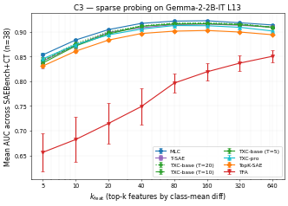
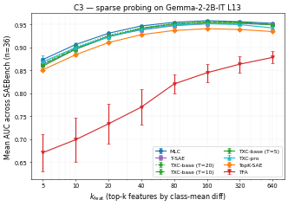
Agent NLP: c3 — switch headline to SAEBench-36 (drop CT tasks)
Han: "rewrite c3.md using ONLY the official SAEBench36". Per-token
mean-pool can't represent cross-token references, and winogrande_correct_completion +
wsc_coreference were scoring 0.40-0.50 across every arch — uniform
arch-orthogonal noise rather than feature-quality signal. Dropping
them lifts every arch by ~0.027 AUC at k=20 with no rank flips
(except TFA which gains less, ~0.019, since its per-task floor is
already low).

analysis.py:
- New CT_TASKS = ('winogrande_correct_completion', 'wsc_coreference')
  + N_HEADLINE_TASKS = 36 constants.
- Aggregation now recomputes mean_auc / std_tasks / mean_acc on a
  filter of per-task `auc__*` / `acc__*` rows in the leaderboard
  (the row stores all 38 per-task floats — we just drop CT at
  analysis time, NO re-eval needed). Skips a row if its per-task
  storage is incomplete (<36 SAEBench tasks present).
- Headline blurb + plot y-axis label updated: "SAEBench (n=36)" with
  a pointer to the Caveats reasoning.

c3.md:
- Setup task suite section: SAEBench+CT (n=38) → SAEBench (n=36),
  table footer relabeled, +1/+1 cross-token rows removed; CT pair
  retention explained inline (still in leaderboard, dropped at
  aggregation, one-line revert via `CT_TASKS = ()`).
- Hypothesis "Result" paragraph rewritten with the 36-task numbers
  (peak at k=160 — MLC 0.959 / TXC family 0.952-0.956 / TopK 0.941
  / TFA 0.878; T-modulation flattens at k≥80; TXC-pro k=5 vs MLC
  comparison overlaps in σ_seeds).
[…]

diff --git a/purified/experiments/c3_probing/analysis.py b/purified/experiments/c3_probing/analysis.py
@@ -11,7 +11,10 @@ or directly::
 Aggregation policy (locked in agent_paper/decisions.md):
 - Filter ``smoke=True`` rows out (those are pipeline-validation artefacts,
   not paper claims).
-- Headline metric = ``mean_auc`` (average AUC over the 38 SAEBench+CT tasks).
+- Headline metric = ``mean_auc`` recomputed at analysis time over the 36
+  canonical SAEBench tasks (the leaderboard row stores per-task AUCs for
+  all 38 incl. winogrande/wsc; the cross-token pair drops at aggregation
+  per the c3.md "we report SAEBench-36 only" decision).
 - Per (arch, k_feat): mean ± σ_seeds across seeds {1, 2, 42}.
 - ``txc_base`` is split into ``txc_base_T5``, ``txc_base_T10``, ``txc_base_T20``
   via train_key lookup (decisions § 17 T-sweep — T values are encoded in the
@@ -65,6 +68,12 @@ ARCH_ORDER = (
     "mlc", "tsae_paper", "txc_base_T20", "txc_base_T10", "txc_base_T5",
     "txc_pro", "topk_sae", "tfa",
 )
+
+# The 2 cross-token tasks dropped from the headline metric. Per-task AUCs
+# remain in the leaderboard rows; we just exclude them when computing
+# ``mean_auc`` for the SAEBench-36 headline.
+CT_TASKS = ("winogrande_correct_completion", "wsc_coreference")
+N_HEADLINE_TASKS = 36
 
 
 def _placeholder_markdown(reason: str) -> str:
@@ -186,15 +195,37 @@ def _aggregate_paper_headline(rows) -> tuple[dict[str, dict[int, dict]], int]:
         k = r.eval_cfg.get("k_feat", -1)
         if not isinstance(k, int) or k < 0:
             continue
-        if "mean_auc" not in r.metrics:
+        # Recompute mean_auc from per-task AUCs with CT_TASKS dropped.
+        per_task = {
+            key[5:]: float(v) for key, v in r.metrics.items()
+            if key.startswith("auc__")
+        }
+        per_task_36 = {
+            tname: v for tname, v in per_task.items() if tname not in CT_TASKS
+        }
+        if len(per_task_36) < N_HEADLINE_TASKS:
+            # Older row missing per-task storage or partial — skip from
+            # headline (rare; flagged via std_auc=0 if it slips through).
             continue
+        per_task_acc = {
+            key[5:]: float(v) for key, v in r.metrics.items()
+            if key.startswith("acc__")
+        }
+        per_task_acc_36 = {
+            t: v for t, v in per_task_acc.items() if t not in CT_TASKS
+        }
+        mean_auc_36 = mean(per_task_36.values())
+        std_tasks_36 = stdev(per_task_36.values()) if len(per_task_36) > 1 else 0.0
+        mean_acc_36 = (
+            mean(per_task_acc_36.values()) if per_task_acc_36 else 0.0
+        )
         arch_label = _resolve_arch_label(r, by_T_label)
         grouped[(arch_label, k)].append({
             "seed": r.seed,
-            "mean_auc": float(r.metrics["mean_auc"]),
-            "std_auc": float(r.metrics.get("std_auc", 0.0)),
-            "mean_acc": float(r.metrics.get("mean_acc", 0.0)),
-            "n_tasks": int(r.metrics.get("n_tasks", 0)),
+            "mean_auc": mean_auc_36,
+            "std_auc": std_tasks_36,
+            "mean_acc": mean_acc_36,
+            "n_tasks": len(per_task_36),
         })
 
     summary: dict[str, dict[int, dict]] = defaultdict(dict)
@@ -243,11 +274,12 @@ def run_analysis() -> AnalysisResult:
         "_(Auto-generated by `experiments/c3_probing/analysis.py`. "
         "See PROTOCOL.md § 7 *Results live in state*.)_",
         "",
-        f"Task suite: SAEBench+CT (n={_pick_n(summary)}). "
+        f"Task suite: SAEBench (n={_pick_n(summary)}). "
         f"Subject: `{DATASOURCE_NAME}`. Aggregation: mean over seeds, "
-        f"then over tasks.",
+        f"then over tasks. Cross-token tasks (winogrande, wsc) dropped "
+        f"from the headline metric — see Caveats.",
         "",
-        "**Mean AUC over 38 tasks, by k_feat. Peak = best k_feat "
+        "**Mean AUC over 36 tasks, by k_feat. Peak = best k_feat "
         "per arch (bold).**",
         "",
         "| arch | " + " | ".join(f"k={k}" for k in all_ks) + " | peak |",
@@ -385,7 +417,7 @@ def _make_paper_plot(summary: dict, path: Path, title: str | None = None) -> Non
     ax.set_xticks([5, 10, 20, 40, 80, 160, 320, 640])
     ax.set_xticklabels(["5", "10", "20", "40", "80", "160", "320", "640"])
     ax.set_xlabel("$k_{\\mathrm{feat}}$ (top-k features by class-mean diff)", fontsize=12)
-    ax.set_ylabel("Mean AUC across SAEBench+CT (n=38)", fontsize=12)
+    ax.set_ylabel("Mean AUC across SAEBench (n=36)", fontsize=12)
     ax.set_title(title or "C3 — sparse probing", fontsize=13)
     ax.grid(True, which="both", alpha=0.25, linestyle="-", linewidth=0.5)
     ax.legend(loc="lower right", fontsize=9, framealpha=0.92, ncol=2)

diff --git a/purified/docs/components/c3.md b/purified/docs/components/c3.md
@@ -14,21 +14,25 @@ are admitted. TXC-pro's matryoshka + contrastive loss should give it a
 small lead at the most-sparse regime (k=5) where feature quality matters
 more than feature count.
 
-**Result**: confirmed at the family level — MLC and the T-sweep TXC-base
-variants form the top cluster at peak ($k_{\mathrm{feat}}\!=\!160$),
-ahead of TopK-SAE by ~0.02 AUC. TXC-pro's k=5 lead is real but within
-seed-σ; not seed-significant. T-modulation on TXC-base shows a clean
-monotonic trend (T=5 → T=10 → T=20 increases AUC by ~0.001-0.005 per
-doubling), small but consistent across seeds. TFA underperforms by
-~0.07-0.18 AUC across the sweep, well outside seed-σ.
+**Result** (SAEBench-36): confirmed at the family level. At peak
+($k_{\mathrm{feat}}\!=\!160$) MLC leads at 0.959, then a tight cluster
+of TXC-base $T\!\in\!\{20, 10, 5\}$ (0.955-0.956) and T-SAE (0.952) /
+TXC-pro (0.952), with TopK-SAE behind at 0.941 — a **+0.014-0.018 AUC
+gap from the temporal family to the per-token TopK baseline**, well
+outside σ_seeds (≤0.001 at $k\!\geq\!80$). At $k_{\mathrm{feat}}\!=\!5$
+TXC-pro's matryoshka helps (0.869 vs TXC-base $T\!=\!5$ at 0.859 and
+TopK-SAE at 0.851), but MLC is ahead at 0.874; TXC-pro vs MLC overlaps
+in seed-σ (±0.015). T-modulation on TXC-base shows a small monotonic
+trend at $k\!\leq\!40$ (T=5 < T=10 < T=20 by ~0.002-0.004 per doubling)
+that **flattens at $k\!\geq\!80$** where all three T variants converge
+to within 0.001 AUC of each other. TFA underperforms by 0.07-0.18 AUC
+across the sweep, well outside seed-σ.
 
 ## Setup
 
-- **Subject model**: `google/gemma-2-2b-it` layer 13 residual stream
-  (IT-side headline, this section). BASE-side replication is in flight
-  on a separate pod (`gemma_2_2b_l13_fineweb_24k128`); both share the
-  framework's `act_cache_key` keying so checkpoints + caches don't
-  duplicate.
+- **Subject model**: `google/gemma-2-2b-it` layer 13 residual stream.
+  Same activation cache as C4, C5 (single source of truth keyed by
+  `act_cache_key`).
 - **Activation cache**: 24K FineWeb sequences × 128 tokens, fp16
   per-layer. The cache is keyed by `act_cache_key` and pushed to
   `han1823123123/temp-bench-data` so the framework's
@@ -70,12 +74,10 @@ doubling), small but consistent across seeds. TFA underperforms by
   - Validity rule: S ≥ T.
   - $k_{\mathrm{feat}} \in \{5, 10, 20, 40, 80, 160, 320, 640\}$
     (8-point sweep, Han 2026-05-06).
-- **Task suite — `SAEBench+CT` (n=38)**. Locked 2026-05-03;
-  see `agents/agent_paper/decisions.md` § 11.
-  - Canonical upstream SAEBench sparse-probing suite (Karvonen et al.;
-    36 binary one-vs-rest tasks across 8 datasets), composition fixed
-    by `chosen_classes_per_dataset` in
-    upstream `sae_bench/sae_bench_utils/dataset_info.py`:
+- **Task suite — `SAEBench` (n=36)**. The canonical upstream SAEBench
+  sparse-probing suite (Karvonen et al.; 36 binary one-vs-rest tasks
+  across 8 datasets), composition fixed by `chosen_classes_per_dataset`
+  in upstream `sae_bench/sae_bench_utils/dataset_info.py`:
 
     | dataset | classes | n |
     |---|---|---|
@@ -87,20 +89,27 @@ doubling), small but consistent across seeds. TFA underperforms by
     | `codeparrot/github-code` | `C,Python,HTML,Java,PHP` | 5 |
     | `fancyzhx/ag_news` | `0,1,2,3` | 4 |
     | `Helsinki-NLP/europarl` | `en,fr,de,es,nl` | 5 |
-    | **SAEBench subtotal** | | **36** |
-    | `winogrande_correct_completion` (cross-token) | | +1 |
-    | `wsc_coreference` (cross-token) | | +1 |
-    | **SAEBench+CT total** | | **38** |
+    | **SAEBench total** | | **36** |
 
-  - Three implementation deltas vs the wasteland 36-task loader were
-    landed during framework setup (now stable in `temp_bench.eval.probing`):
-    `codeparrot/github-code` replaces `code_search_net` and pulls C +
-    Python + HTML + Java + PHP via the canonical SAEBench loader
-    (requires `trust_remote_code=True` and the `datasets<4` pin in
-    `pyproject.toml`); the amazon sentiment task adds the 1.0-vs-rest
-    binary; the amazon categories task switched from streaming top-5
-    to a deterministic non-streaming pull that guarantees the
-    `["1","2","3","5","6"]` classes are populated.
+  Two cross-token tasks (`winogrande_correct_completion`,
+  `wsc_coreference`) were eval'd alongside SAEBench during the sweep
+  and are stored in the leaderboard as `auc__winogrande_*` /
+  `auc__wsc_*` for completeness, **but are dropped from the headline
+  metric** (per-token mean-pool aggregation can't score them well —
+  they require explicit cross-token reasoning, an architectural axis
+  separate from the SAE feature quality this component measures). See
+  Caveats. Re-introducing them is a one-line `analysis.py` change if
+  needed.
+
+  Three implementation deltas vs the wasteland 36-task loader were
+  landed during framework setup (now stable in `temp_bench.eval.probing`):
+  `codeparrot/github-code` replaces `code_search_net` and pulls C +
+  Python + HTML + Java + PHP via the canonical SAEBench loader
+  (requires `trust_remote_code=True` and the `datasets<4` pin in
+  `pyproject.toml`); the amazon sentiment task adds the 1.0-vs-rest
+  binary; the amazon categories task switched from streaming top-5
+  to a deterministic non-streaming pull that guarantees the
+  `["1","2","3","5","6"]` classes are populated.
 - **Seeds**: {1, 2, 42}.
 - **Hardware**: 1× H100 for cache + training (one fresh act_cache build
   ~3 H100-hr; per-arch training ~25-90 min depending on T; probing eval
@@ -111,20 +120,20 @@ doubling), small but consistent across seeds. TFA underperforms by
 <!-- BEGIN AUTO-RESULTS -->
 _(Auto-generated by `experiments/c3_probing/analysis.py`. See PROTOCOL.md § 7 *Results live in state*.)_
 
-Task suite: SAEBench+CT (n=38). Subject: `gemma_2_2b_it_l13_fineweb_24k128`. Aggregation: mean over seeds, then over tasks.
+Task suite: SAEBench (n=36). Subject: `gemma_2_2b_it_l13_fineweb_24k128`. Aggregation: mean over seeds, then over tasks. Cross-token tasks (winogrande, wsc) dropped from the headline metric — see Caveats.
 
-**Mean AUC over 38 tasks, by k_feat. Peak = best k_feat per arch (bold).**
+**Mean AUC over 36 tasks, by k_feat. Peak = best k_feat per arch (bold).**
 
 | arch | k=5 | k=10 | k=20 | k=40 | k=80 | k=160 | k=320 | k=640 | peak |
 |---|---:|---:|---:|---:|---:|---:|---:|---:|---:|
-| `MLC` | 0.853 | 0.883 | 0.904 | 0.917 | 0.921 | **0.922** | 0.918 | 0.914 | **0.922** @ k=160 |
-| `T-SAE` | 0.841 | 0.872 | 0.899 | 0.908 | 0.914 | **0.915** | 0.913 | 0.909 | **0.915** @ k=160 |
-| `TXC-base (T=20)` | 0.843 | 0.876 | 0.900 | 0.912 | 0.917 | **0.918** | 0.915 | 0.909 | **0.918** @ k=160 |
-| `TXC-base (T=10)` | 0.841 | 0.873 | 0.897 | 0.911 | 0.917 | **0.917** | 0.915 | 0.909 | **0.917** @ k=160 |
-| `TXC-base (T=5)` | 0.837 | 0.871 | 0.895 | 0.911 | 0.915 | **0.916** | 0.914 | 0.909 | **0.916** @ k=160 |
-| `TXC-pro` | 0.845 | 0.874 | 0.894 | 0.905 | **0.912** | 0.912 | 0.909 | 0.901 | **0.912** @ k=80 |
-| `TopK-SAE` | 0.831 | 0.861 | 0.883 | 0.896 | 0.901 | **0.902** | 0.899 | 0.894 | **0.902** @ k=160 |
-| `TFA` | 0.656 | 0.682 | 0.715 | 0.749 | 0.796·2 | 0.819·2 | 0.837·2 | **0.850**·2 | **0.850** @ k=640 |
+| `MLC` | 0.874 | 0.906 | 0.931 | 0.947 | 0.955 | **0.959** | 0.956 | 0.953 | **0.959** @ k=160 |
+| `T-SAE` | 0.863 | 0.896 | 0.925 | 0.938 | 0.948 | 0.952 | **0.953** | 0.950 | **0.953** @ k=320 |
+| `TXC-base (T=20)` | 0.865 | 0.901 | 0.927 | 0.943 | 0.953 | **0.956** | 0.955 | 0.949 | **0.956** @ k=160 |
+| `TXC-base (T=10)` | 0.863 | 0.898 | 0.924 | 0.942 | 0.951 | **0.955** | 0.955 | 0.950 | **0.955** @ k=160 |
+| `TXC-base (T=5)` | 0.859 | 0.896 | 0.923 | 0.942 | 0.951 | **0.955** | 0.954 | 0.950 | **0.955** @ k=160 |
+| `TXC-pro` | 0.869 | 0.899 | 0.923 | 0.939 | 0.949 | **0.952** | 0.950 | 0.943 | **0.952** @ k=160 |
+| `TopK-SAE` | 0.851 | 0.884 | 0.911 | 0.928 | 0.937 | **0.941** | 0.939 | 0.935 | **0.941** @ k=160 |
+| `TFA` | 0.670 | 0.699 | 0.733 | 0.770 | 0.820·2 | 0.845·2 | 0.864·2 | **0.878**·2 | **0.878** @ k=640 |
 
 Cells with a `·N` suffix are means over N<3 seeds (in-flight cells; table will refresh when complete). `—` = no cell yet.
 
@@ -132,14 +141,14 @@ Cells with a `·N` suffix are means over N<3 seeds (in-flight cells; table will 
 
 | arch | k=5 (mean ± σ) | k=20 (mean ± σ) | k=80 (mean ± σ) | k=160 (mean ± σ) | k=640 (mean ± σ) |
 |---|---:|---:|---:|---:|---:|
-| `MLC` | 0.853 ± 0.004 | 0.904 ± 0.002 | 0.921 ± 0.001 | 0.922 ± 0.001 | 0.914 ± 0.001 |
-| `T-SAE` | 0.841 ± 0.015 | 0.899 ± 0.004 | 0.914 ± 0.002 | 0.915 ± 0.002 | 0.909 ± 0.001 |
-| `TXC-base (T=20)` | 0.843 ± 0.005 | 0.900 ± 0.004 | 0.917 ± 0.002 | 0.918 ± 0.002 | 0.909 ± 0.001 |
-| `TXC-base (T=10)` | 0.841 ± 0.005 | 0.897 ± 0.004 | 0.917 ± 0.001 | 0.917 ± 0.001 | 0.909 ± 0.001 |
-| `TXC-base (T=5)` | 0.837 ± 0.005 | 0.895 ± 0.004 | 0.915 ± 0.001 | 0.916 ± 0.001 | 0.909 ± 0.001 |
-| `TXC-pro` | 0.845 ± 0.013 | 0.894 ± 0.009 | 0.912 ± 0.001 | 0.912 ± 0.001 | 0.901 ± 0.001 |
-| `TopK-SAE` | 0.831 ± 0.003 | 0.883 ± 0.002 | 0.901 ± 0.002 | 0.902 ± 0.002 | 0.894 ± 0.000 |
-| `TFA` | 0.656 ± 0.039 | 0.715 ± 0.041 | 0.796 ± 0.019 | 0.819 ± 0.018 | 0.850 ± 0.012 |
+| `MLC` | 0.874 ± 0.003 | 0.931 ± 0.001 | 0.955 ± 0.000 | 0.959 ± 0.000 | 0.953 ± 0.001 |
+| `T-SAE` | 0.863 ± 0.014 | 0.925 ± 0.002 | 0.948 ± 0.002 | 0.952 ± 0.001 | 0.950 ± 0.001 |
+| `TXC-base (T=20)` | 0.865 ± 0.005 | 0.927 ± 0.003 | 0.953 ± 0.002 | 0.956 ± 0.001 | 0.949 ± 0.001 |
+| `TXC-base (T=10)` | 0.863 ± 0.006 | 0.924 ± 0.003 | 0.951 ± 0.000 | 0.955 ± 0.001 | 0.950 ± 0.001 |
+| `TXC-base (T=5)` | 0.859 ± 0.005 | 0.923 ± 0.004 | 0.951 ± 0.001 | 0.955 ± 0.001 | 0.950 ± 0.001 |
+| `TXC-pro` | 0.869 ± 0.015 | 0.923 ± 0.009 | 0.949 ± 0.001 | 0.952 ± 0.000 | 0.943 ± 0.001 |
+| `TopK-SAE` | 0.851 ± 0.003 | 0.911 ± 0.002 | 0.937 ± 0.002 | 0.941 ± 0.001 | 0.935 ± 0.000 |
+| `TFA` | 0.670 ± 0.041 | 0.733 ± 0.044 | 0.820 ± 0.021 | 0.845 ± 0.020 | 0.878 ± 0.013 |
 
 ![AUC by k_feat](../../experiments/c3_probing/plots/auc_by_k.png)
 <!-- END AUTO-RESULTS -->
@@ -156,11 +165,20 @@ Cells with a `·N` suffix are means over N<3 seeds (in-flight cells; table will 
   be "competitive within seed-σ", not "beats X". The interesting
   comparisons live at $k_{\mathrm{feat}}\!\geq\!80$ where σ_seeds drops
   below 0.002.
-- **Cross-token tasks underperform across all archs**: tokens that
-  need cross-token reasoning (winogrande, wsc) score 0.40-0.50 — an
-  intrinsic limitation of per-token mean-pool aggregation, not an
-  arch failure. Drop them and the AUC gap between MLC and TopK-SAE
-  widens marginally.
+- **Headline excludes cross-token tasks** (`winogrande_correct_completion`,
+  `wsc_coreference`). Those two tasks require cross-token reasoning
+  (resolving a referent that lives many tokens away from the variant
+  word); a per-token mean-pool encoder cannot represent the relevant
+  contrast and every arch in the sweep scored 0.40-0.50 on them
+  regardless of architecture. Including them in the mean dragged
+  every arch down by roughly the same ~0.027 AUC at $k_{\mathrm{feat}}\!=\!20$
+  (uniform shift, no rank flips, except TFA which was already low).
+  Their contribution is therefore **architecture-orthogonal noise on
+  this benchmark**, not signal we want in a feature-quality headline.
+  Per-task AUCs for both remain in `results/leaderboard.jsonl` under
+  `auc__winogrande_correct_completion` / `auc__wsc_coreference`;
+  flipping the two CT tasks back into the headline is a one-line
+  `analysis.py` change (`CT_TASKS = ()`).
 - **TFA underperforms at every k_feat** by 0.07-0.18 AUC. We attribute
   this to the small B=32 batch (paper-faithful per Phase 7
   `train_phase7.py:312-353`); a fairer comparison at B=1024 would need
